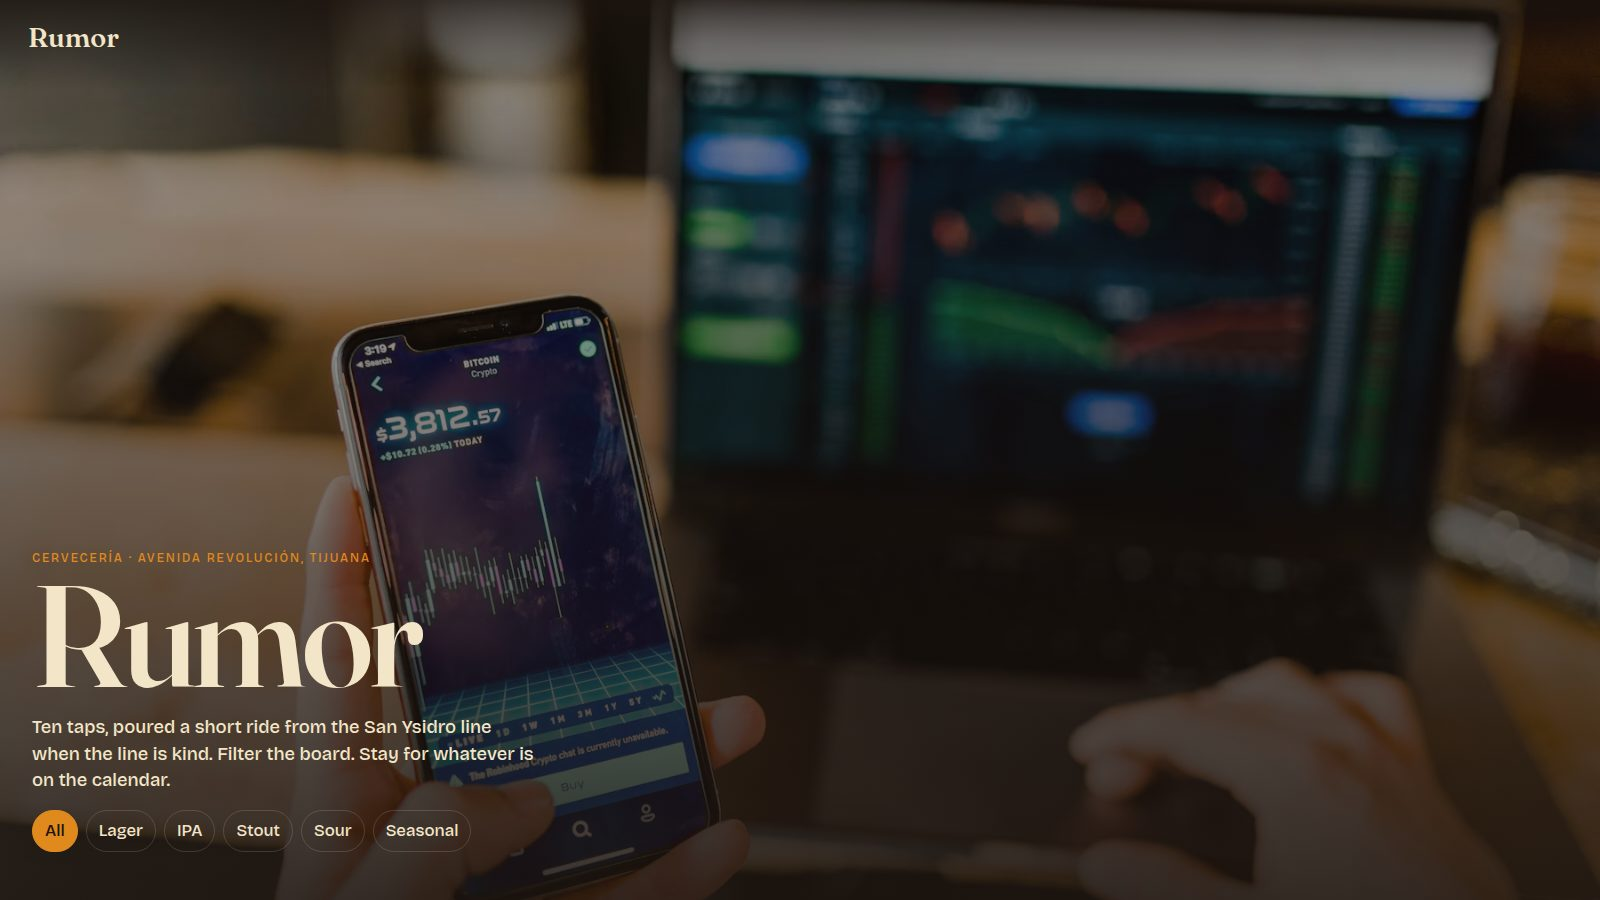
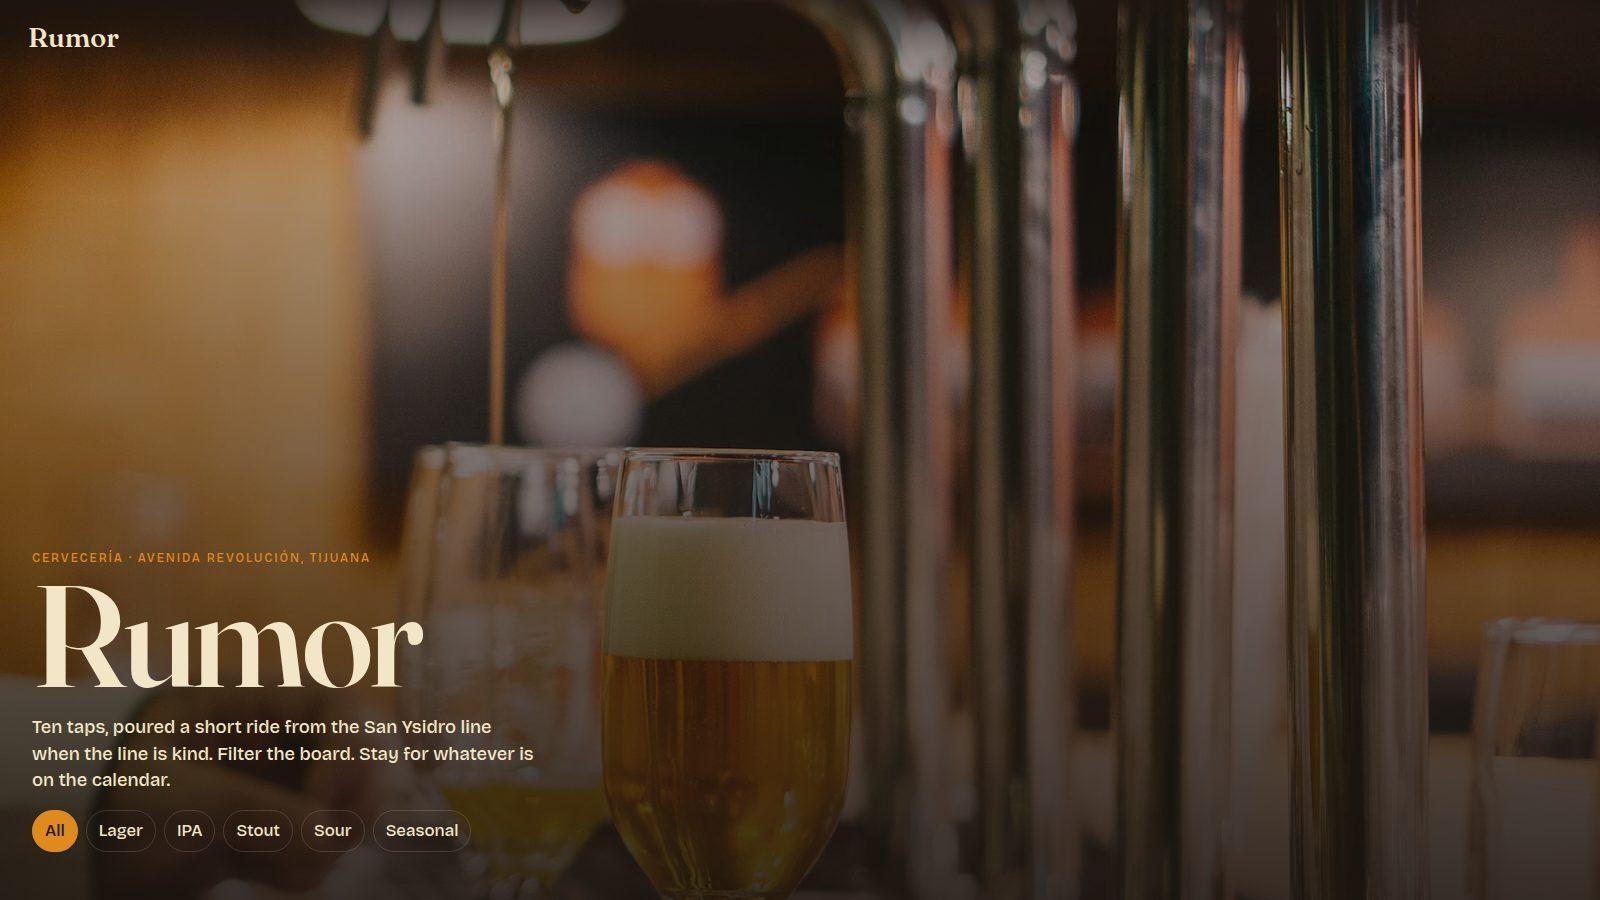
Replace the Rumor Brewing hero with a taproom photo. (#2)
The previous Unsplash image was a phone showing a crypto chart. Use the taproom photo and refresh the 1600x900 preview the portfolio cards share.

diff --git a/demos/brewery/index.html b/demos/brewery/index.html
@@ -28,7 +28,7 @@
 
   <main>
     <section class="hero">
-      <img src="https://images.unsplash.com/photo-1559526324-593bc073d938?auto=format&amp;fit=crop&amp;w=1800&amp;q=75" alt="A row of beer taps in a dark taproom" width="1800" height="1200">
+      <img src="https://images.unsplash.com/photo-1567696911980-2eed69a46042?auto=format&amp;fit=crop&amp;w=1800&amp;q=75" alt="A taproom bar with beer taps and glasses of beer" width="1800" height="1200">
       <div class="hero-scrim" aria-hidden="true"></div>
       <div class="hero-copy">
         <p class="eyebrow">Cervecería · Avenida Revolución, Tijuana</p>
